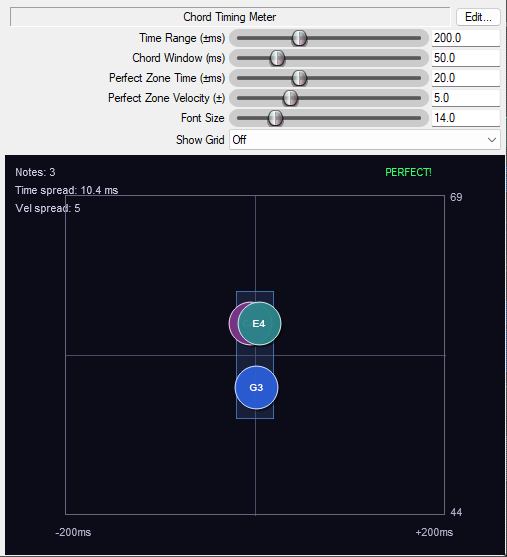
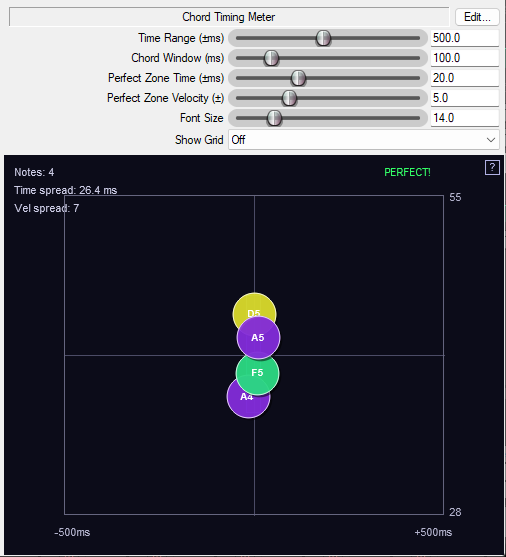
UI updates

diff --git a/docs/chord-timing-meter.md b/docs/chord-timing-meter.md
@@ -18,8 +18,9 @@ A practice tool for pianists and keyboard players to visualize how accurately yo
 - **Horizontal axis**: Shows timing differences in milliseconds. Notes played earlier appear left, later notes appear right. Perfect simultaneity means all circles align vertically in the center.
 - **Vertical axis**: Shows velocity (intensity) differences. Notes played harder appear higher, softer notes lower. Even pressure means all circles align horizontally in the center.
 - **Perfect Zone**: A blue rectangle in the center shows the target area. When all notes land inside, you get a "PERFECT!" rating.
-- **Color coding**: Each pitch class (C, C#, D, etc.) has a unique hue. Colors shift toward blue when timing is good, toward red when timing is poor.
+- **Color coding**: Each pitch class (C, C#, D, etc.) has a unique hue.
 - **Quality feedback**: Displays "PERFECT!", "Good", "Fair", or "Needs work" based on timing and velocity spread.
+- **Hide Sliders**: Click the "?" button in the top-right corner to toggle the visibility of the slider controls.
 
 ## Use Cases
 
